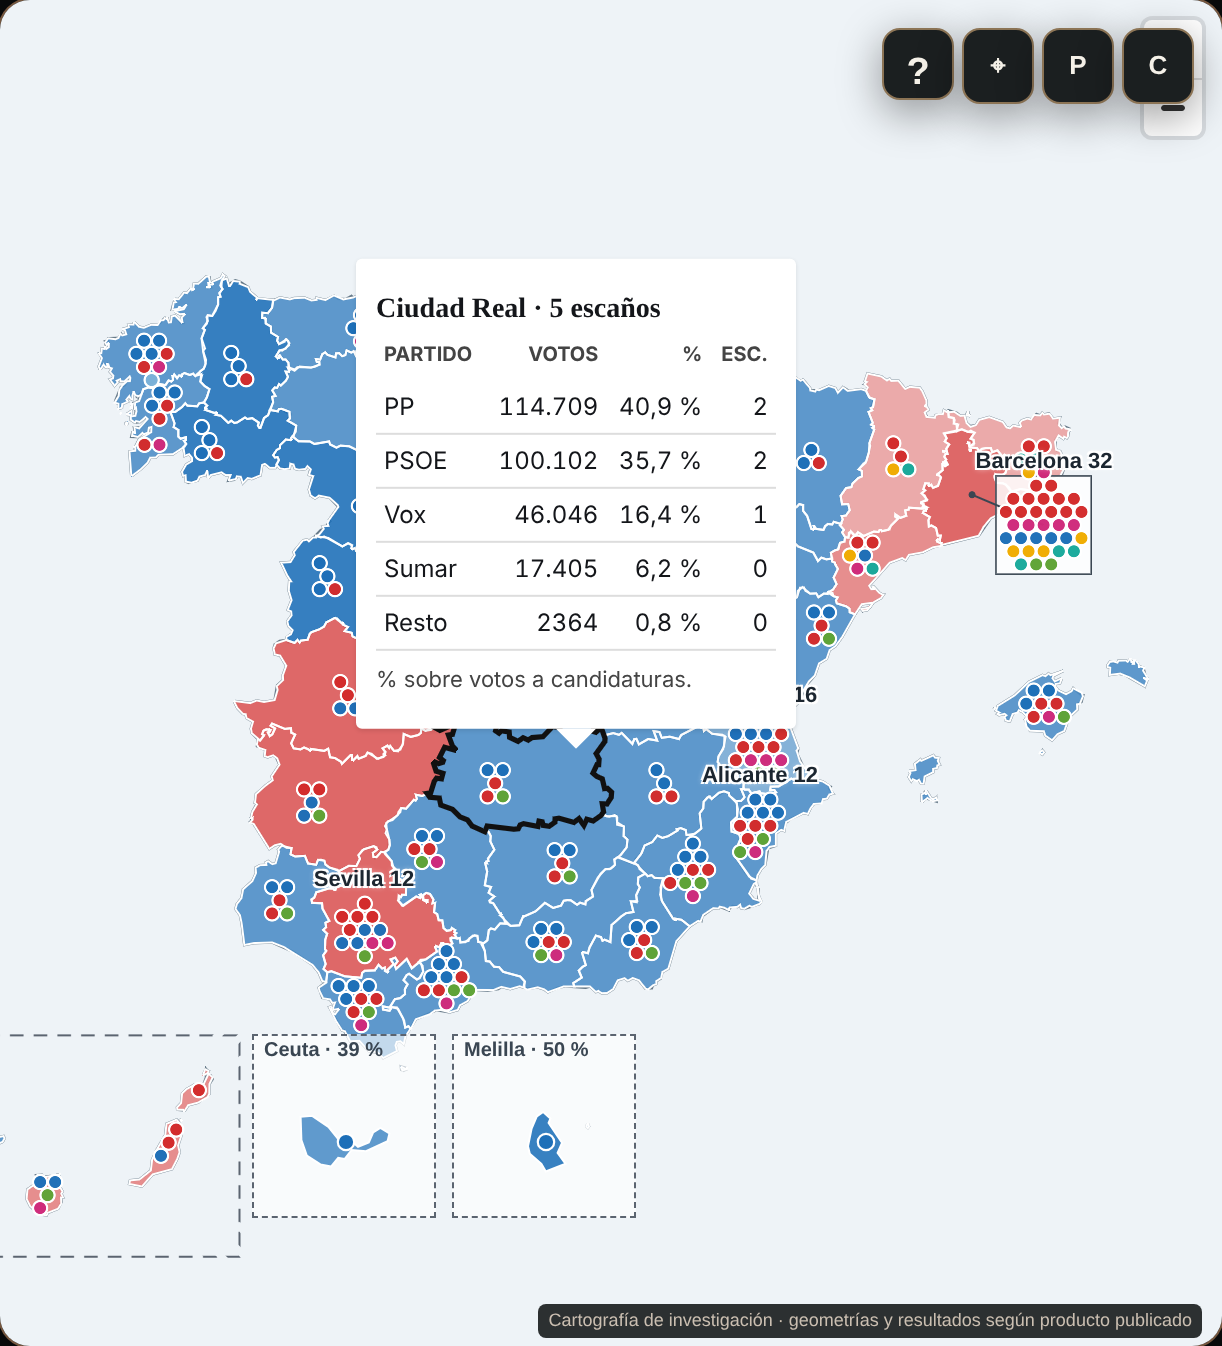
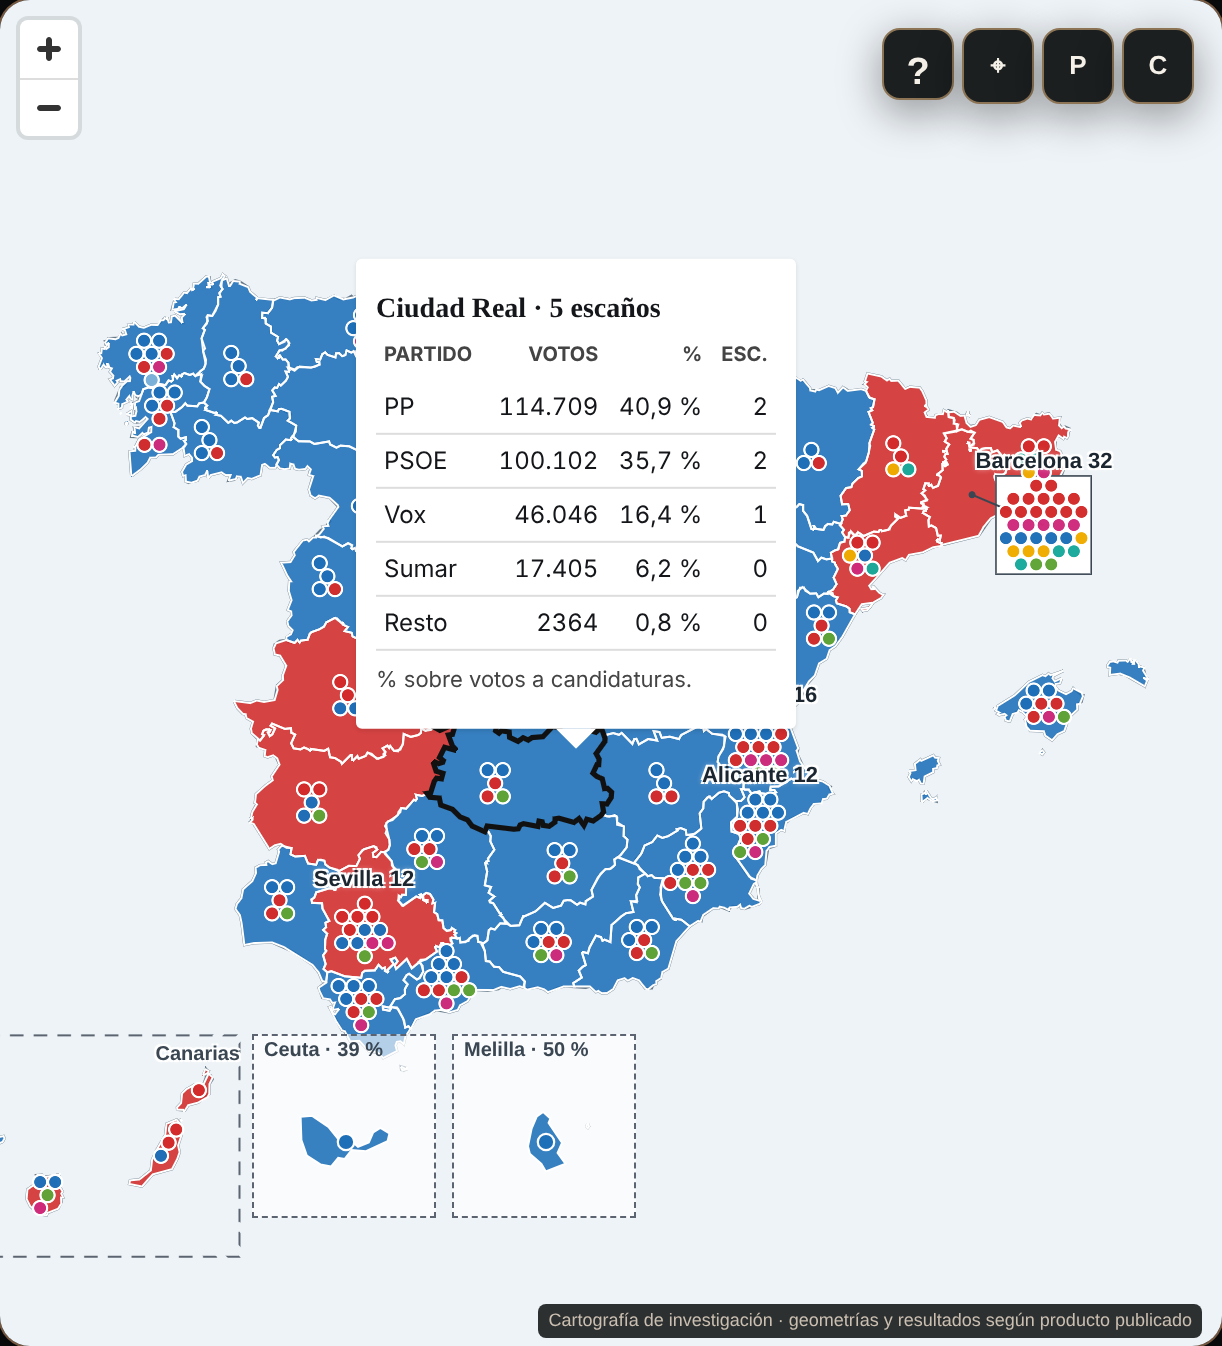
T-500: relleno de provincias igual que la capa proporcional, sin aclarar; placa opaca; capturas emparejadas

diff --git a/visor/v4/mapa/explorar.js b/visor/v4/mapa/explorar.js
@@ -5,7 +5,7 @@
  * ESTADO: candidato
  * ANTERIOR: legacy/visor/v4/mapa/explorar_v1.5.0_20261125.js
  * CAMBIOS: 1.6.0 (T-500, diseño T-499 1.0.1): capa «Situación actual · puntos», activa por defecto en Congreso · 2023 · Provincia: un punto por diputado en un racimo
- *   ordenado por partido (placa en Madrid, Barcelona, Vizcaya y Tenerife; línea guía en Barcelona), provincia en el color del más votado con 4 clases de intensidad,
+ *   ordenado por partido (placa en Madrid, Barcelona, Vizcaya y Tenerife; línea guía en Barcelona), provincia con el relleno de «Partido más votado» (el mismo que la capa proporcional, sin aclarar; sustituye las 4 clases de intensidad del diseño por orden del propietario, 26-11),
  *   recuadros de Canarias, Ceuta y Melilla, leyenda en el panel derecho con % sobre votos a candidaturas y ventana con la tabla de la provincia. Datos de mapa/puntos_v5_2023.json
  *   (herramientas/datos_puntos_v5.py, BOE-A-2023-18907) y disposición en mapa/puntos.js. Sin datos, vuelve a la doble vuelta.
  *   Retoque 1.6.0: el zoom pasa a arriba a la izquierda (los botones ? ⌖ P C lo tapaban) y el rótulo de Canarias al borde derecho de su marco (a la izquierda quedaba cortado).
@@ -110,10 +110,6 @@
     S.scope="nacional";S.region="";S.province=null;S.unit={kind:"pais",properties:{}};S.system="proporcional";S.view="electoral";S.election="202307";S.level="provincia";
     updateSegments("scope","nacional");updateSegments("system","proporcional");updateSegments("view","electoral");$("level").value="provincia";
   }
-  function colorProvincia(cod){
-    const d=D.puntos?.provincias?.[cod];if(!d||!PT)return null;
-    const g=PT.ganador(d);return PT.mezcla(PALETA[family(g.p)]||PALETA.OTROS,PT.clase(g.pct).mezcla);
-  }
   function puntosCifras(cod){
     if(cod){const d=D.puntos.provincias[cod],g=PT.ganador(d);
       return [["Escaños 2023",fmt(d.escanos)],["Votos a candidaturas",fmt(d.votos_candidaturas)],["Más votado",nom5(g.p)+" · "+pc1v(g.pct)]];}
@@ -127,8 +123,7 @@
       T.lista.map(x=>"<tr><td>"+sw(x.p)+esc(x.p==="PSOE"?"PSOE (con PSC)":nom5(x.p))+"</td><td>"+pc(x.votos)+"</td><td>"+x.escanos+"</td></tr>").join("")+
       "<tr><td><i class='dot' style='background:"+PALETA.OTROS+"'></i>Resto (sin escaño)</td><td>"+pc(T.resto)+"</td><td>0</td></tr>"+
       "<tr class='total'><td>Total</td><td>100 %</td><td>"+T.escanos+"</td></tr></tbody></table>"+
-      "<h4>Intensidad: % de voto del partido más votado en la provincia</h4><ul class='v5-esc'>"+
-      PT.CLASES.map(k=>"<li><span style='background:"+PT.mezcla(PALETA.PP,k.mezcla)+"'></span>"+esc(k.texto)+"</li>").join("")+"</ul>"+
+      "<p class='v5-sub'>Cada provincia se colorea con su partido más votado.</p>"+
       "<small>% sobre votos a candidaturas (sin votos en blanco ni nulos). Fuente: BOE-A-2023-18907, Junta Electoral Central; sin estimaciones ni encuestas.</small>";
   }
   function puntosPopupHtml(cod){
@@ -372,7 +367,7 @@
       const devs=D.territorial?.provincias?.[p.cod]?.distritos||[];
       const deviation=devs.length?Math.max(...devs.map(d=>Math.abs(Number(d.dev)))):null;
       return {...x,properties:{...p,party:family(S.system==="mayoritario"?winner:p.ganador),
-        population:pop||null,...(deviation===null?{}:{deviation}),dominant:winner,...(colorProvincia(p.cod)?{v5color:colorProvincia(p.cod)}:{})}};
+        population:pop||null,...(deviation===null?{}:{deviation}),dominant:winner}};
     });
   }
   function styleInit(){return{version:8,sources:{},layers:[{id:"water",type:"background",paint:{"background-color":"#eef3f7"}}]};}
@@ -430,7 +425,7 @@
     v5Datos(L,true);
     installSource("v5marco",fc5(L.marcoCanarias?[{type:"Feature",properties:{},geometry:{type:"LineString",coordinates:L.marcoCanarias}}]:[]));
     const z=PT.ZC,filtro=l=>["==",["get","lay"],l],oculto={layout:{visibility:"none"}};
-    map.addLayer({id:"v5-placa-fill",type:"fill",source:"v5placas",filter:filtro("n"),maxzoom:z,...oculto,paint:{"fill-color":"#ffffff","fill-opacity":.85}});
+    map.addLayer({id:"v5-placa-fill",type:"fill",source:"v5placas",filter:filtro("n"),maxzoom:z,...oculto,paint:{"fill-color":"#ffffff","fill-opacity":1}});
     map.addLayer({id:"v5-placa-line",type:"line",source:"v5placas",filter:filtro("n"),maxzoom:z,...oculto,paint:{"line-color":"#3a4652","line-width":.8}});
     map.addLayer({id:"v5-guia",type:"line",source:"v5guias",filter:["all",filtro("n"),["==",["geometry-type"],"LineString"]],maxzoom:z,...oculto,paint:{"line-color":"#3a4652","line-width":1}});
     map.addLayer({id:"v5-guia-pt",type:"circle",source:"v5guias",filter:["all",filtro("n"),["==",["geometry-type"],"Point"]],maxzoom:z,...oculto,paint:{"circle-radius":2,"circle-color":"#3a4652"}});
@@ -449,7 +444,7 @@
       const rec=["51","52"].map(c=>{const f=provinceByCode(c),d=D.puntos.provincias[c];if(!f||!d)return "";
         const g=PT.ganador(d),col=PALETA[family(g.p)]||PALETA.OTROS;
         return "<div class='v5-rb'><b>"+esc(d.nombre)+" · "+Math.round(g.pct)+" %</b><svg viewBox='0 0 92 74' width='92' height='74' role='img' aria-label='"+esc(d.nombre+", ampliada ×8")+"'><path d='"+PT.recuadro(f)+
-          "' fill='"+colorProvincia(c)+"' fill-opacity='.88' stroke='#fff'/><circle cx='46' cy='40' r='4.1' fill='"+col+"' stroke='#fff' stroke-width='1.1'/></svg></div>";}).join("");
+          "' fill='"+col+"' fill-opacity='.88' stroke='#fff'/><circle cx='46' cy='40' r='4.1' fill='"+col+"' stroke='#fff' stroke-width='1.1'/></svg></div>";}).join("");
       marca(rec,"v5-rec",-7.3,36.25,"top-left");
     }
     map.on("zoom",v5Zoom);
@@ -626,7 +621,7 @@
       if(S.layer==="unidades")return ["coalesce",["get","neutralColor"],neutral];return base;}
     const dvAut=dvActiva()&&!isN&&isElect&&S.system==="mayoritario"&&!!S.region&&DVD.datos.has(S.region)&&dvEleccionOk();
     const dv=dvActiva()&&(permitColors||dvAut)&&DVD.indice?dvExpression():null;
-    paintWith("prov-fill",pt?["coalesce",["get","v5color"],neutral]:dvActiva()?neutral:thematic(permitColors?party:neutral));
+    paintWith("prov-fill",!pt&&dvActiva()?neutral:thematic(permitColors?party:neutral));  // la situación actual usa el relleno de «Partido más votado», sin aclarar (T-500)
     paintWith("dist-fill",dv||thematic(permitColors?party:S.view==="territorial"?["coalesce",["get","neutralColor"],neutral]:neutral));
     const secPop=["interpolate",["linear"],["to-number",["get","p"],0],0,"#eff6f9",500,"#bbd6df",2000,"#497e9b",5000,"#193f61"];
     const secTerr=["coalesce",["get","territorialColor"],neutral];

diff --git a/tests/test_visor_v4_puntos.js b/tests/test_visor_v4_puntos.js
@@ -3,7 +3,7 @@
  * VERSIÓN: 1.0.0 · FECHA: 2026-11-25 · ESTADO: candidato · ANTERIOR: ninguna (fichero nuevo)
  * FUNCIÓN: (A) la disposición de puntos.js con la geometría real de provincias y el JSON real de escaños: 350 puntos (348 + Ceuta y Melilla en recuadro),
  *   cada provincia con sus escaños, agrupados por partido, placa solo en Madrid, Barcelona, Vizcaya y Tenerife, línea guía solo en Barcelona, nada
- *   que desborde en la disposición de cerca; intensidad en 4 clases con los colores de la tabla del diseño. (B) el visor con un navegador simulado:
+ *   que desborde en la disposición de cerca. (B) el visor con un navegador simulado:
  *   capa por defecto, colores, leyenda, ventana de la provincia, salidas a otras capas y vuelta a la doble vuelta si faltan los datos.
  *   Esperados: literales del BOE-A-2023-18907 (escaños y votos) y de la tabla del diseño, no recalculados con el código. */
 "use strict";
@@ -44,9 +44,6 @@ function ptoDentro(x, y, g) {
   const polys = g.type === "MultiPolygon" ? g.coordinates : [g.coordinates];
   return polys.some(poly => { let r = false; for (const ring of poly) for (let i = 0; i < ring.length; i++) { const [x1, y1] = ring[i], [x2, y2] = ring[i ? i - 1 : ring.length - 1]; if ((y1 > y) !== (y2 > y) && x < (x2 - x1) * (y - y1) / (y2 - y1) + x1) r = !r; } return r; });
 }
-// Intensidad: 4 clases con los límites y colores de la tabla del diseño (PP).
-eq([45, 44.99, 35, 34.99, 30, 29.99].map(x => PT.clase(x).mezcla), [0, .2, .2, .4, .4, .55]);
-eq([0, .2, .4, .55].map(t => PT.mezcla("#1d6fb8", t)), ["#1d6fb8", "#4a8cc6", "#77a9d4", "#99bedf"]);
 eq(PT.ganador(datos.provincias["28"]).p, "PP"); assert.equal(Math.round(PT.ganador(datos.provincias["28"]).pct * 100), 4087);
 // Totales estatales literales: PP 137, PSOE 121 (con PSC), Vox 33, Sumar 31, ERC 7, Junts 7, EH Bildu 6, PNV 5, BNG 1, CC 1, UPN 1; 24 487 414 votos a candidaturas.
 const T = PT.totales(datos);
@@ -104,13 +101,15 @@ const flush = async () => { for (let i = 0; i < 40; i++) await new Promise(r => 
   assert.equal(doc.body.dataset.puntos, "348");
   assert.equal(map.getLayer("v5-n").layout.visibility, "visible"); assert.equal(map.getLayer("prov-fill").layout.visibility, "visible"); assert.equal(map.getLayer("dist-fill").layout.visibility, "none");
   assert.equal(map.getSource("distritos").data.features.length, 0, "no se cargan distritos para esta capa");
-  // 2. Color de provincia: más votado con la intensidad de su clase (Madrid PP 40,87 % → clase 35–45; Vizcaya PNV 27,08 % → < 30; Barcelona PSOE 35,99 %).
-  const col = cod => map.getSource("prov").data.features.find(f => f.properties.cod === cod).properties.v5color;
-  eq([col("28"), col("48"), col("08"), col("20")], ["#4a8cc6", "#a0b7a5", "#dc5555", "#6faf97"]);
-  eq(map.getLayer("prov-fill").paint["fill-color"].slice(0, 2), ["coalesce", ["get", "v5color"]]);
+  // 2. Relleno de provincia: el mismo que la capa proporcional «Partido más votado» (sin aclarar) y con su misma opacidad y trazo.
+  const relleno = JSON.stringify(map.getLayer("prov-fill").paint["fill-color"]), opac = map.getLayer("prov-fill").paint["fill-opacity"];
+  assert.equal(relleno.slice(0, 24), '["match",["get","party"]'); assert.ok(relleno.includes('"#1d6fb8"') && relleno.includes('"#d32b2b"'), "paleta de partidos plena");
+  assert.ok(map.getSource("prov").data.features.every(f => f.properties.v5color === undefined), "sin color propio ni aclarado");
+  assert.equal(opac, .88); eq([map.getLayer("prov-line").paint["line-color"], map.getLayer("prov-line").paint["line-width"]], ["#fff", 1]);
+  assert.equal(map.getLayer("v5-placa-fill").paint["fill-opacity"], 1, "la placa no es translúcida");
   // 3. Leyenda: % sobre votos a candidaturas, escaños, resto y total; fuente y escala.
   const ley = element("v5-content").innerHTML;
-  for (const s of ["33,3 %", "31,9 %", "12,5 %", "PSOE (con PSC)", "Resto (sin escaño)", "2,5 %", "<td>350</td>", "% sobre votos a candidaturas", "BOE-A-2023-18907", "≥ 45 %", "35–45 %", "30–35 %", "&lt; 30 %"]) assert.ok(ley.includes(s), s);
+  for (const s of ["33,3 %", "31,9 %", "12,5 %", "PSOE (con PSC)", "Resto (sin escaño)", "2,5 %", "<td>350</td>", "% sobre votos a candidaturas", "BOE-A-2023-18907", "partido más votado"]) assert.ok(ley.includes(s), s);
   assert.equal(element("v5-mode").hidden, false); assert.equal(element("legend").innerHTML, "", "el mapa queda libre");
   // 4. Clic en Madrid: resalta, abre la ventana con la tabla (votos, %, escaños) y no acerca el mapa.
   const f28 = provincias.features.find(f => f.properties.cod === "28");
@@ -130,6 +129,7 @@ const flush = async () => { for (let i = 0; i < 40; i++) await new Promise(r => 
   assert.equal(map.getLayer("v5-c").minzoom, 6.6); assert.equal(map.getLayer("v5-n").maxzoom, 6.6); map.zoom = 5;
   // 6. Otra capa: los puntos se ocultan. Doble vuelta: sistema mayoritario. Volver a «puntos»: Congreso, proporcional, electoral.
   element("layer").value = "ganador"; element("layer").onchange({target: element("layer")}); await flush();
+  assert.equal(JSON.stringify(map.getLayer("prov-fill").paint["fill-color"]), relleno, "es el mismo relleno que «Partido más votado»");
   assert.equal(map.getLayer("v5-n").layout.visibility, "none"); assert.equal(element("v5-mode").hidden, true);
   element("layer").value = "doblevuelta"; element("layer").onchange({target: element("layer")}); await flush();
   eq([t.S.layer, t.S.system], ["doblevuelta", "mayoritario"]);
@@ -146,5 +146,5 @@ const flush = async () => { for (let i = 0; i < 40; i++) await new Promise(r => 
   t = await arrancar(false);
   eq([t.S.layer, t.S.system], ["doblevuelta", "mayoritario"]); assert.equal(element("layer").value, "doblevuelta");
   assert.equal(map.getLayer("v5-n"), undefined); assert.match(element("map-notice").textContent, /situación actual no están disponibles/);
-  console.log("OK visor v4 puntos (350 diputados por provincia, placas, intensidad, leyenda, ventana y salidas)");
+  console.log("OK visor v4 puntos (350 diputados por provincia, placas, relleno de la capa proporcional, leyenda, ventana y salidas)");
 })().catch(e => { console.error(e); process.exitCode = 1; });

diff --git a/visor/v4/mapa/puntos.js b/visor/v4/mapa/puntos.js
@@ -4,8 +4,8 @@
  * FECHA: 2026-11-25
  * ESTADO: candidato
  * ANTERIOR: ninguna (fichero nuevo; parte de docs/ESTUDIOS/T499_v5/generar_maqueta_v5.py)
- * CAMBIOS: 1.0.0: fichero nuevo.
- * MOTIVO: T-500. Funciones puras (sin DOM ni MapLibre): intensidad de la provincia en 4 clases, racimo compacto ordenado por partido
+ * CAMBIOS: 1.0.0: fichero nuevo (sin clases de intensidad: el color de la provincia es el de la capa «Partido más votado»).
+ * MOTIVO: T-500. Funciones puras (sin DOM ni MapLibre): racimo compacto ordenado por partido
  *   en una malla hexagonal (con placa y línea guía donde no cabe), y recuadros de Ceuta y Melilla. Los escaños y votos salen de
  *   puntos_v5_2023.json (herramientas/datos_puntos_v5.py, BOE-A-2023-18907); aquí no se calcula ningún dato electoral. */
 "use strict";
@@ -14,15 +14,8 @@
   // al acercar el racimo quepa dentro de la provincia y desaparezca la placa. `ZC` es el zoom en que se pasa de una a otra.
   const ZC = 6.6;
   const DISPOSICIONES = {n: {zr: 5.3, sp: 11, r: 4.1, desp: {"08": [52, 22]}}, c: {zr: ZC, sp: 14, r: 5.6, desp: {}}};
-  // % del partido más votado → mezcla con blanco (0 = color pleno).
-  const CLASES = [{min: 45, mezcla: 0, texto: "≥ 45 %"}, {min: 35, mezcla: .2, texto: "35–45 %"}, {min: 30, mezcla: .4, texto: "30–35 %"}, {min: 0, mezcla: .55, texto: "< 30 %"}];
   const SIN_PLACA_NI_PUNTOS = ["51", "52"]; // Ceuta y Melilla: recuadro propio
 
-  function mezcla(hex, t) {
-    const v = [1, 3, 5].map(i => parseInt(hex.slice(i, i + 2), 16));
-    return "#" + v.map(c => Math.round(c + (255 - c) * t).toString(16).padStart(2, "0")).join("");
-  }
-  function clase(pct) {return CLASES.find(c => pct >= c.min);}
   // Más votado de la provincia (por votos, no por escaños) y su % sobre votos a candidaturas.
   function ganador(prov) {
     const g = prov.partidos.reduce((a, b) => b.votos > a.votos ? b : a);
@@ -138,6 +131,6 @@
     return {lista, resto, estatal: datos.votos_candidaturas_estatal, escanos: lista.reduce((s, x) => s + x.escanos, 0)};
   }
 
-  root.PUNTOS = {ZC, DISPOSICIONES, CLASES, mezcla, clase, ganador, disponer, recuadro, totales};
+  root.PUNTOS = {ZC, DISPOSICIONES, ganador, disponer, recuadro, totales};
   if (typeof module !== "undefined" && module.exports) module.exports = root.PUNTOS;
 })(typeof window !== "undefined" ? window : globalThis);

diff --git a/visor/v4/mapa/explorar.css b/visor/v4/mapa/explorar.css
@@ -69,7 +69,6 @@ dialog{background:var(--panel);color:var(--cream)}dialog button{background:#6515
 .v5-tab{width:100%;border-collapse:collapse;font-size:12px}.v5-tab th{font-size:10px;color:var(--muted);text-align:right;padding:3px 4px;text-transform:uppercase}.v5-tab td{padding:3px 4px;text-align:right;font-variant-numeric:tabular-nums;border-bottom:1px solid #3a2f27}.v5-tab th:first-child,.v5-tab td:first-child{text-align:left;white-space:nowrap}
 .v5-tab .total td{font-weight:700;border-bottom:0}.dv-popup .v5-tab th{color:#444}.dv-popup .v5-tab td{border-bottom:1px solid #ddd}
 i.dot{display:inline-block;width:11px;height:11px;border-radius:50%;margin-right:6px;border:1px solid #fff;vertical-align:-1px}
-ul.v5-esc{display:flex;gap:3px;list-style:none;margin:0;padding:0}.v5-esc li{flex:1;font-size:10px;text-align:center}.v5-esc li span{display:block;height:12px;border-radius:3px;margin-bottom:2px}
 .v5-lbl{font:600 11px var(--sans,sans-serif);color:#1c2630;text-shadow:-1px -1px 0 #fff,1px -1px 0 #fff,-1px 1px 0 #fff,1px 1px 0 #fff,0 0 3px #fff;pointer-events:none;white-space:nowrap}.v5-can{font-weight:600;font-size:10px;color:#3a4652;margin:4px 6px 0 0}
 .v5-rec{display:flex;gap:8px;pointer-events:none}.v5-rb{width:92px;background:#ffffffa0;border:1px dashed #5b6470;color:#3a4652;font:600 10px var(--sans,sans-serif);padding:2px 0 0}.v5-rb b{display:block;padding:0 5px}
 .dv-popup .small-note{color:#444;margin:6px 0 0}

diff --git a/docs/registro/2026-11-25_t-500-mapa-v5.md b/docs/registro/2026-11-25_t-500-mapa-v5.md
@@ -4,9 +4,9 @@
 
 **Cambio.**
 - `herramientas/datos_puntos_v5.py` 1.0.0: genera `visor/v4/mapa/puntos_v5_2023.json` desde `configuracion/resultados_oficiales_congreso_2023.csv` y los cuadros II y III de BOE-A-2023-18907 (XML con sha256 y CSV con sha256 comprobados contra `configuracion/resultados_oficiales_congreso_2023.json`; para sin escribir si no cuadran 52 circunscripciones, 350 escaños, la fila «Total estatal» o el cuadro II frente al CSV). Salida idéntica byte a byte al JSON del estudio (sha256 `a003daf9…efd`).
-- `visor/v4/mapa/puntos.js` 1.0.0 (nuevo): racimo compacto ordenado por partido en malla hexagonal; placa en Madrid, Barcelona, Vizcaya y Tenerife, línea guía en Barcelona; al acercar (zoom 6,6) otra disposición donde todo cabe y sin placa; 4 clases de intensidad; recuadros de Ceuta y Melilla.
-- `explorar.js` 1.6.0, `explorar.css` 1.2.0, `index.html` 1.5.0 (copias en `legacy/`): capa «Situación actual · puntos» activa por defecto en Congreso · 2023 · Provincia (sistema «Actual proporcional»), colores de la paleta V4, leyenda en el panel derecho con % sobre votos a candidaturas, ventana de la provincia con su tabla, marco de Canarias. Sin el JSON, vuelve a la doble vuelta y lo dice. Sin carteles nuevos.
+- `visor/v4/mapa/puntos.js` 1.0.0 (nuevo): racimo compacto ordenado por partido en malla hexagonal; placa en Madrid, Barcelona, Vizcaya y Tenerife, línea guía en Barcelona; al acercar (zoom 6,6) otra disposición donde todo cabe y sin placa; recuadros de Ceuta y Melilla.
+- `explorar.js` 1.6.0, `explorar.css` 1.2.0, `index.html` 1.5.0 (copias en `legacy/`): capa «Situación actual · puntos» activa por defecto en Congreso · 2023 · Provincia (sistema «Actual proporcional»), colores de la relleno de provincias, trazo y opacidad iguales que la capa proporcional «Partido más votado» (el mismo `paletteExpression`, sin aclarar: por orden del propietario, 26-11, sustituye las 4 clases de intensidad del diseño), placa opaca, leyenda en el panel derecho con % sobre votos a candidaturas, ventana de la provincia con su tabla, marco de Canarias. Sin el JSON, vuelve a la doble vuelta y lo dice. Sin carteles nuevos.
 
-**Pruebas.** `tests/test_visor_v4_datos_puntos.py` (valores literales del BOE: Madrid 37 y PP 1 463 183; 24 487 414 votos; fallo cerrado por huella; regeneración byte a byte si se da `DDD_BOE_2023_XML`), `tests/test_visor_v4_puntos.js` (disposición con geometría real, 350 diputados, placas, clases y colores de la tabla del diseño, leyenda, ventana, salidas de la capa, fallo sin datos), `tests/test_visor_v4_mapa.py` 2.2.0 (copia en `legacy/tests/`). Los tests de la doble vuelta no cambian. Capturas locales con Playwright en `docs/ESTUDIOS/T500_v5/`.
+**Pruebas.** `tests/test_visor_v4_datos_puntos.py` (valores literales del BOE: Madrid 37 y PP 1 463 183; 24 487 414 votos; fallo cerrado por huella; regeneración byte a byte si se da `DDD_BOE_2023_XML`), `tests/test_visor_v4_puntos.js` (disposición con geometría real, 350 diputados, placas, clases y colores de la tabla del diseño, leyenda, ventana, salidas de la capa, fallo sin datos), `tests/test_visor_v4_mapa.py` 2.2.0 (copia en `legacy/tests/`). Los tests de la doble vuelta no cambian. Capturas locales con Playwright en `docs/ESTUDIOS/T500_v5/`, también emparejadas (`par_1_antes_*`, `par_2_main_proporcional_*`, `par_3_despues_*`, escritorio y móvil).
 
 **Riesgos.** T-460 (#1015) toca `explorar.js`/`dv.js`: posible conflicto en la cabecera CAMBIOS. No cambia huellas M05/N08 ni exige 00; el sitio nuevo se ve en P90 por rama y se publica con P40 «solo sitio» (permiso del propietario).
